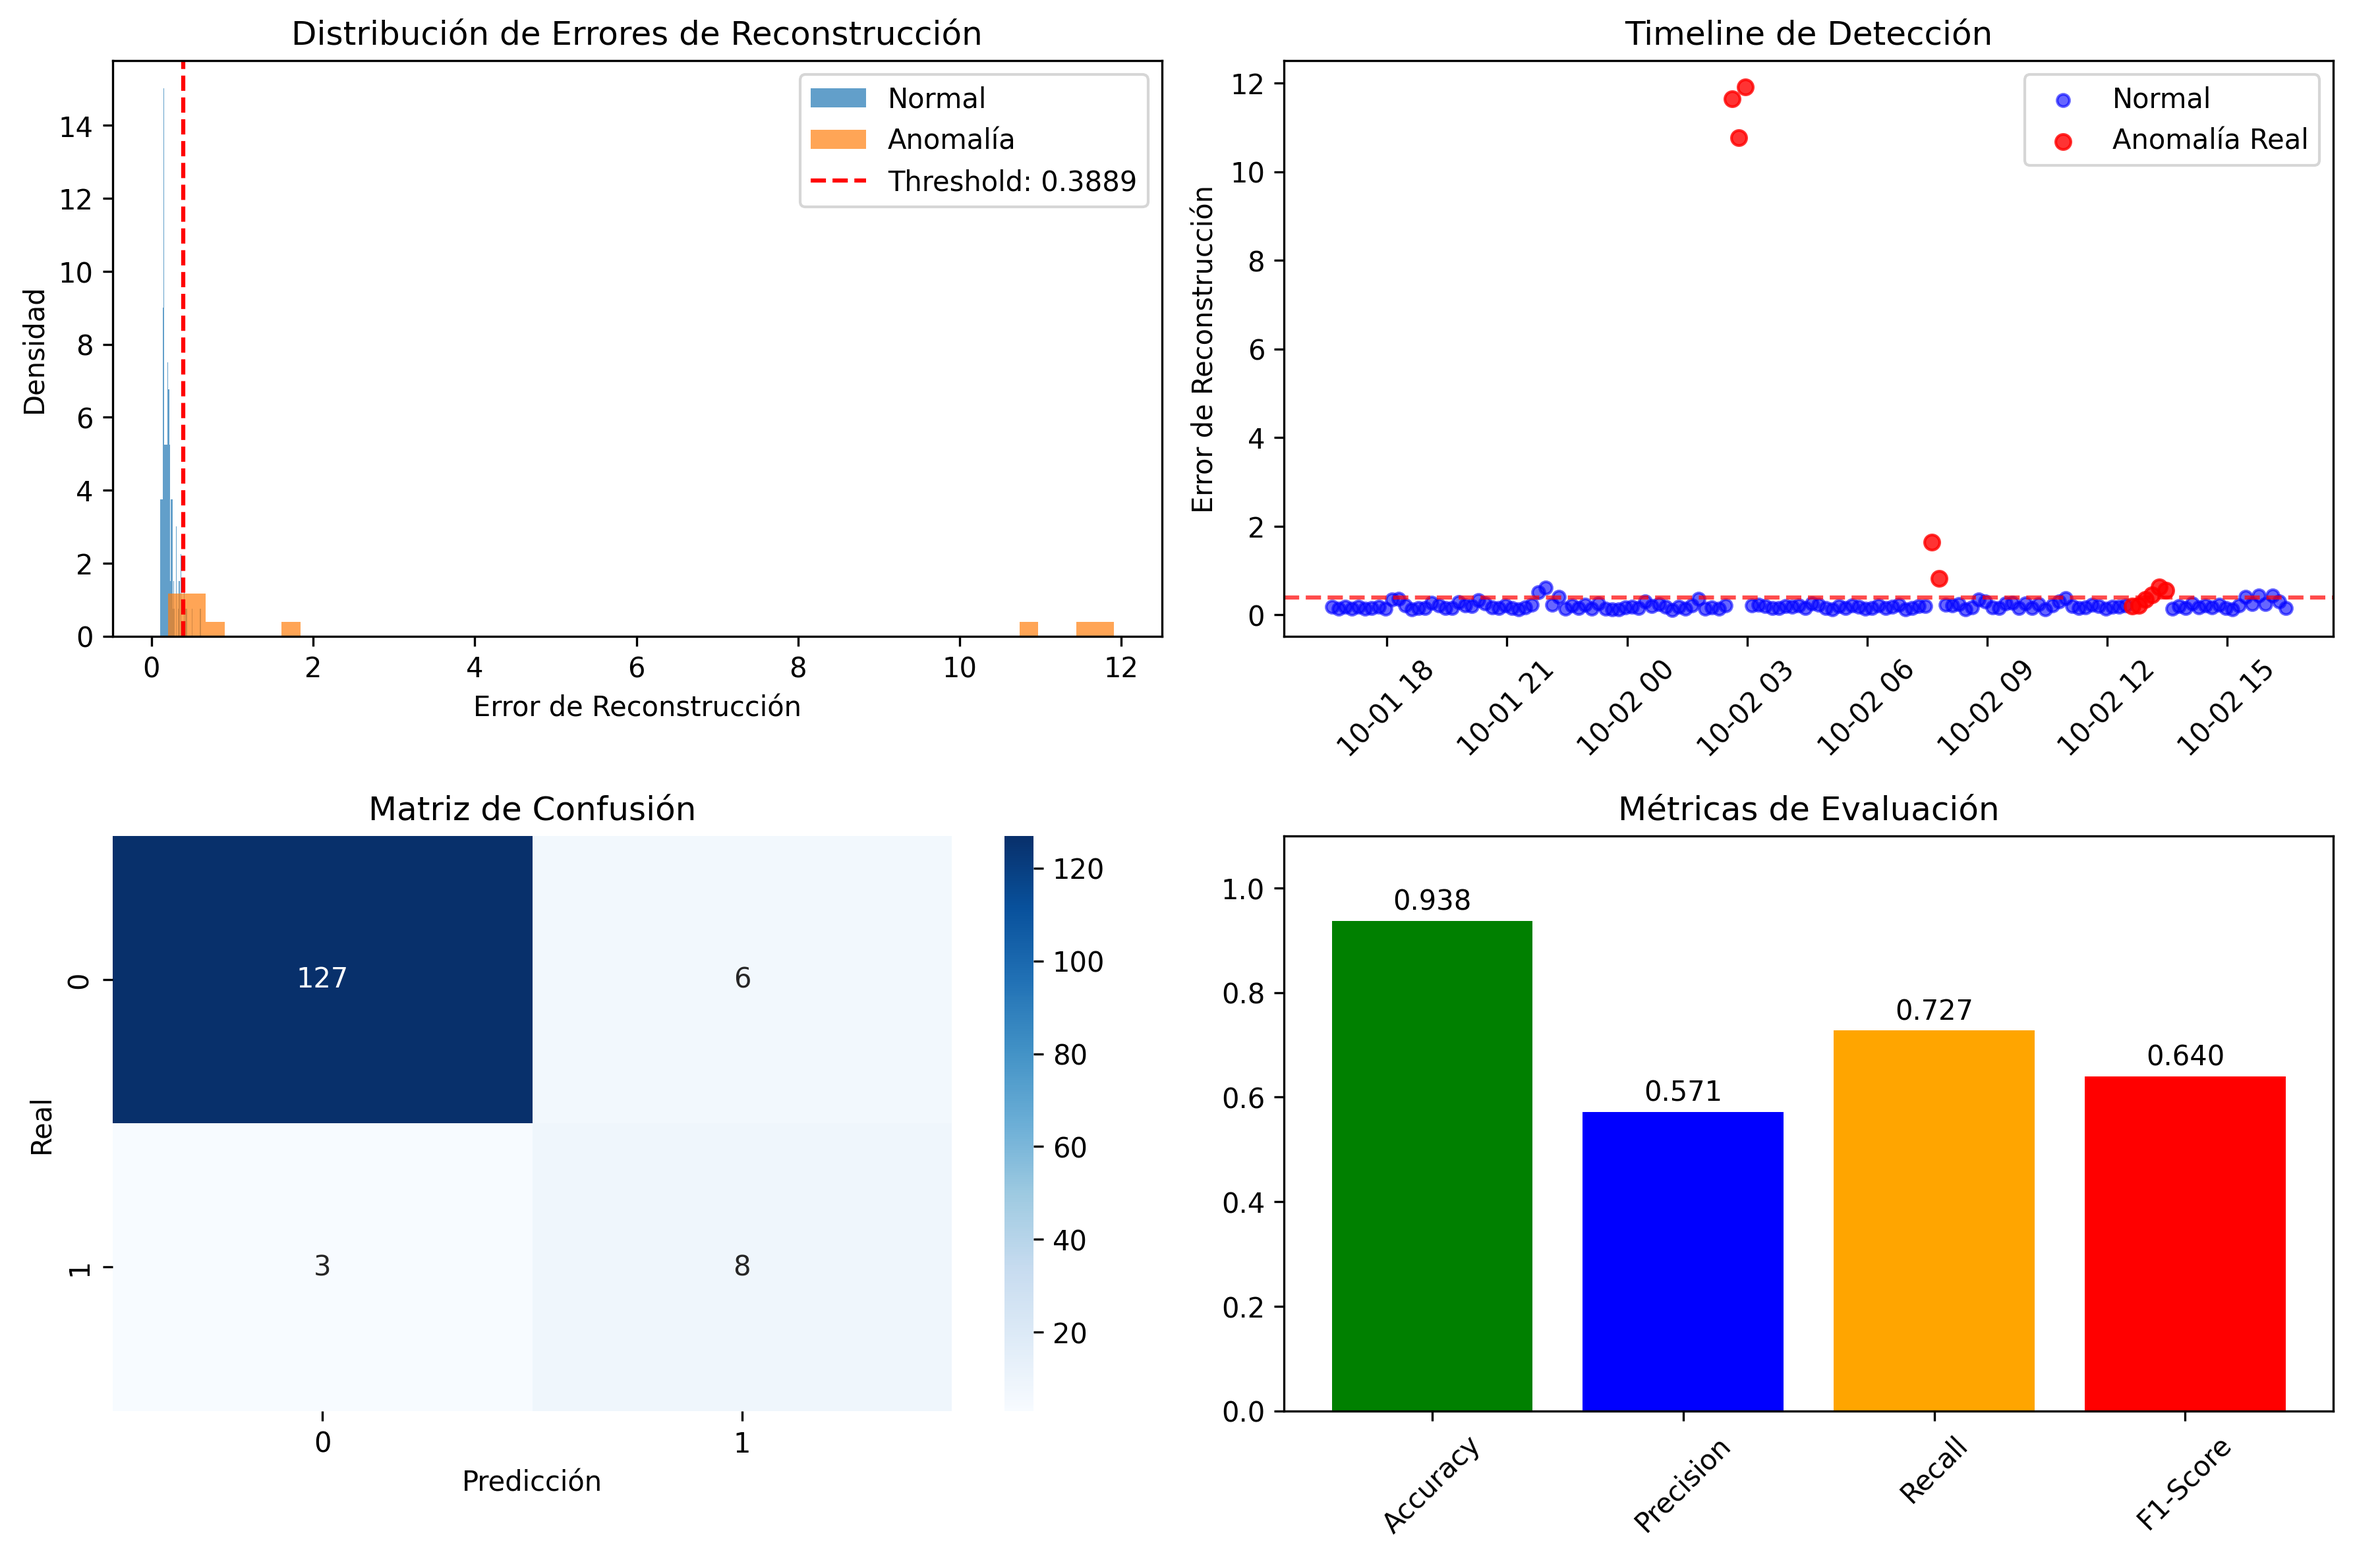
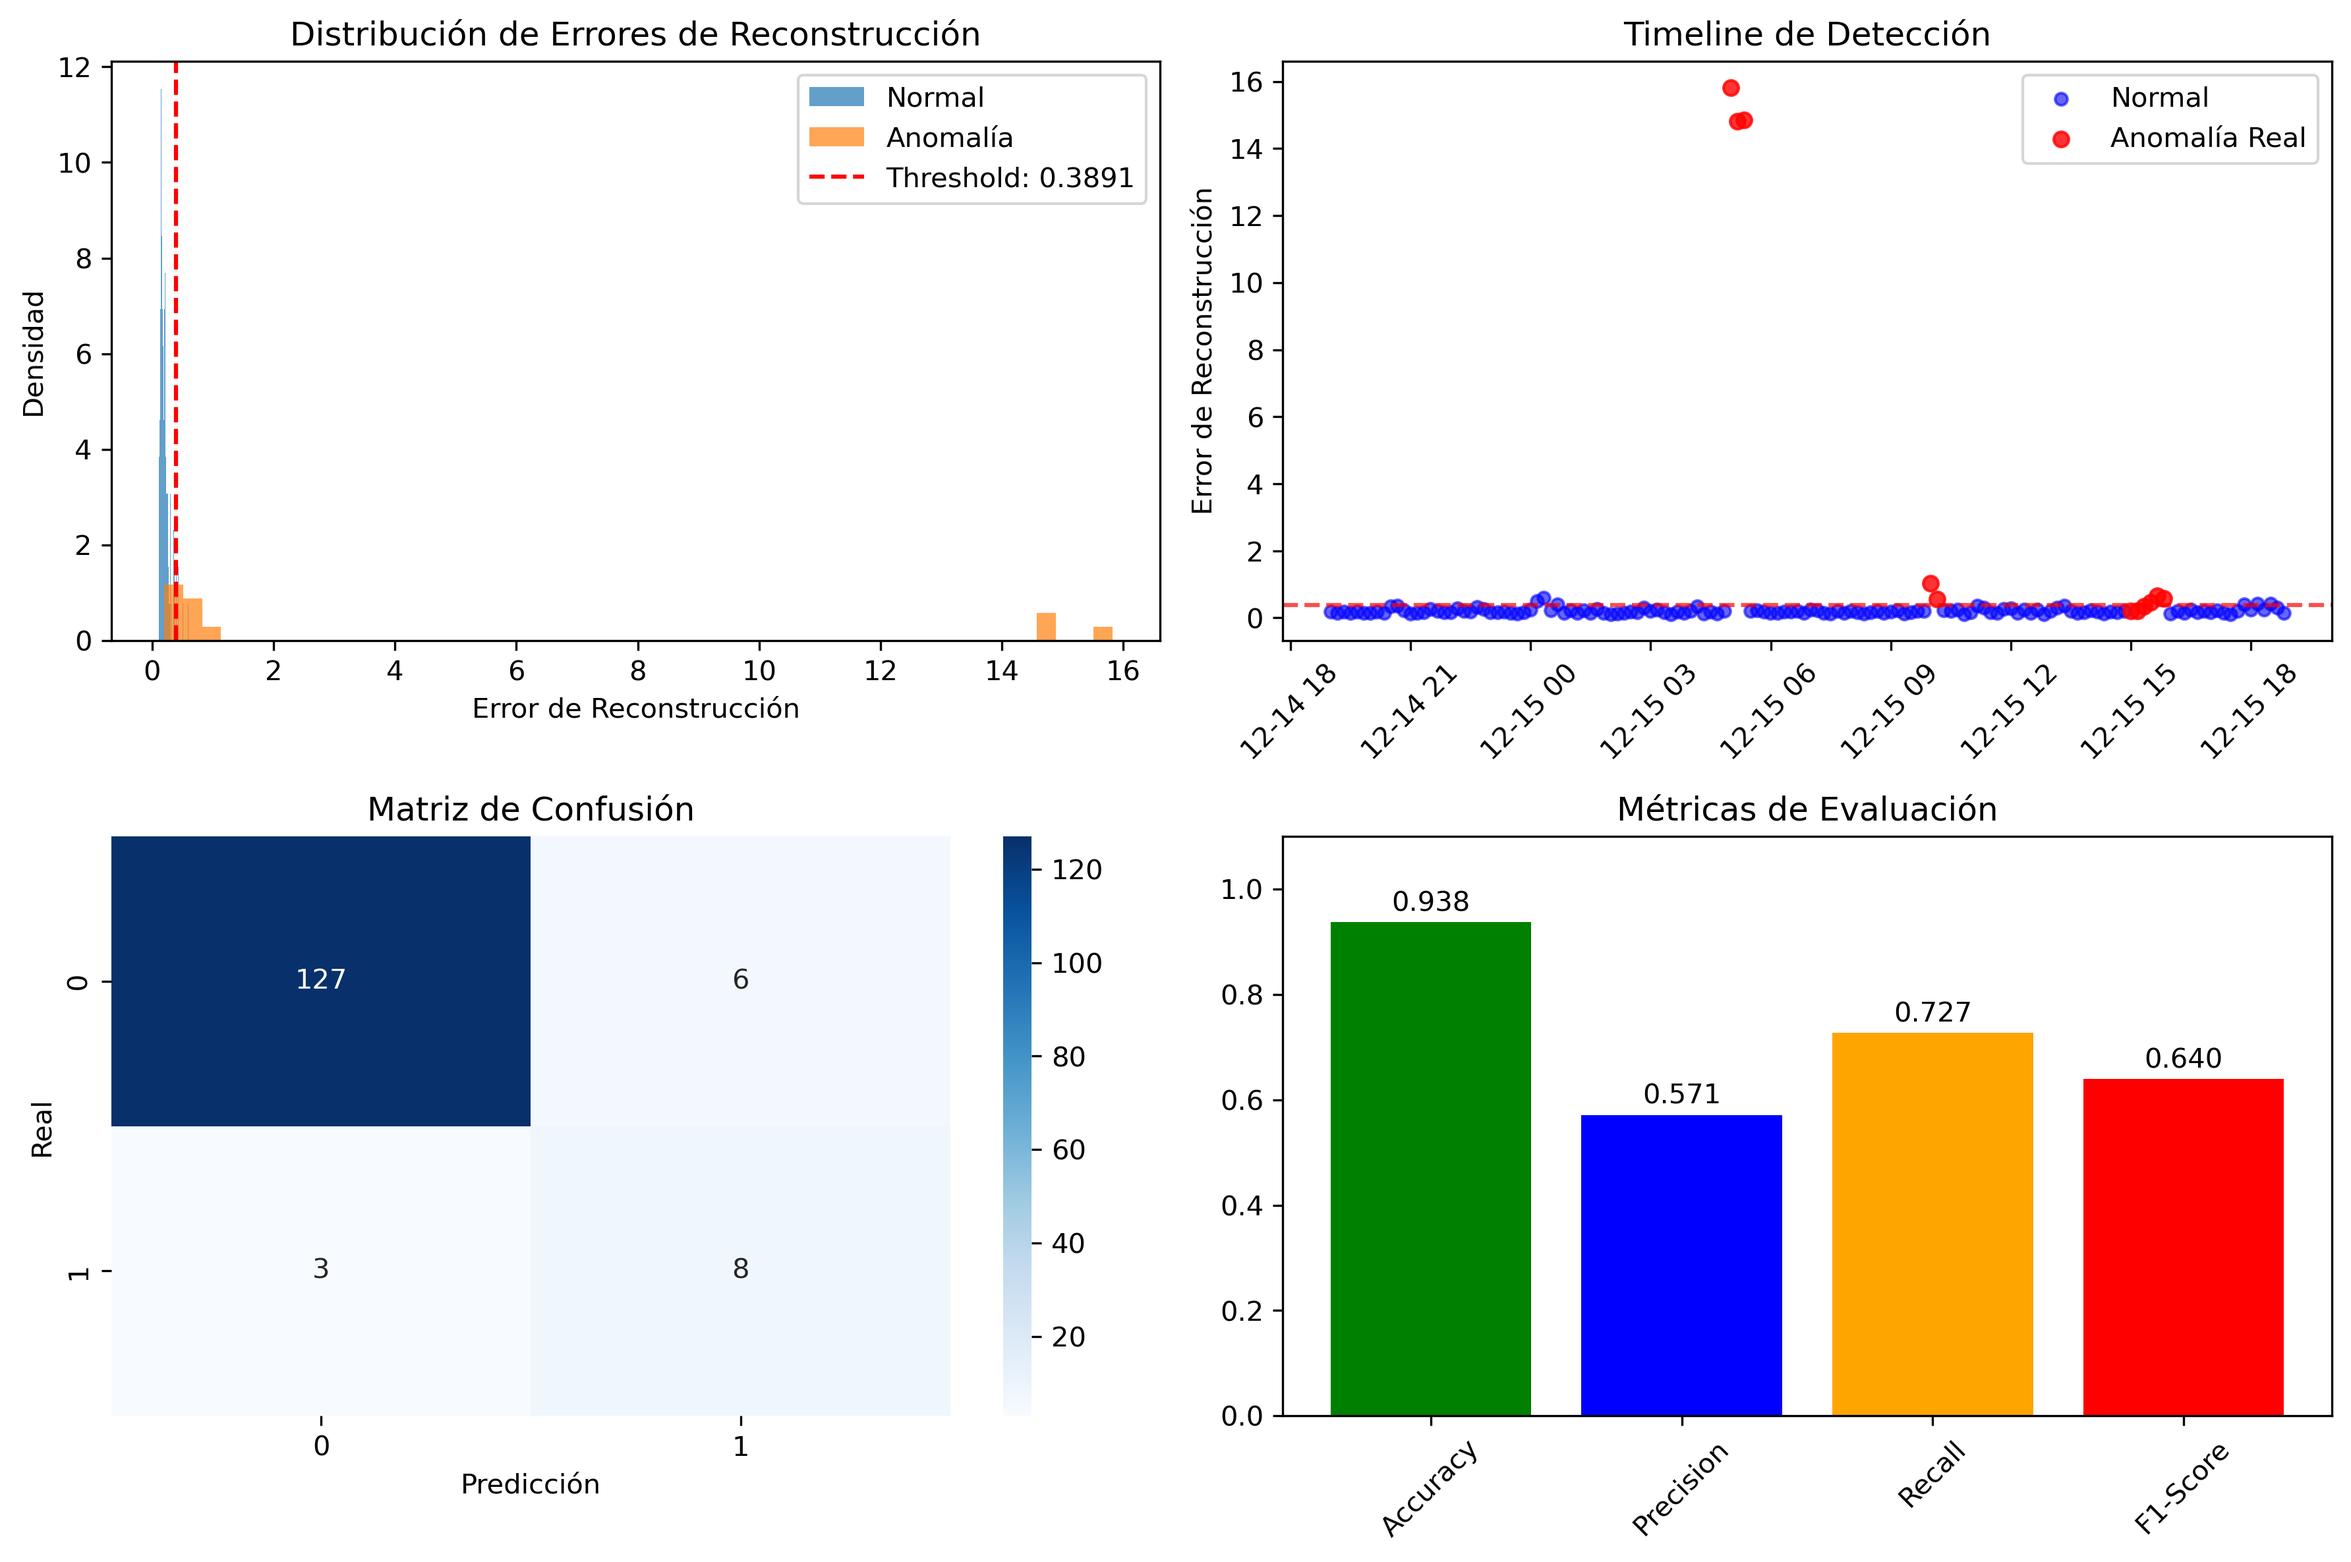
fixed inference and training scripts to correctly load and save model weights and configurations separately.

diff --git a/scripts/train.py b/scripts/train.py
@@ -25,11 +25,11 @@ def generate_synthetic_data() -> pd.DataFrame:
     Genera datos sintéticos para desarrollo
     """
     start_time = datetime.now() - timedelta(days=7)
-    timestamps = pd.date_range(start=start_time, periods=20160, freq='30S')
+    timestamps = pd.date_range(start=start_time, periods=20160, freq='30s')
     
     np.random.seed(42)
     n_points = len(timestamps)
-    
+     
     # Patrón base con ciclo diario
     hours = np.array([ts.hour for ts in timestamps])
     daily_pattern = 0.5 + 0.3 * np.sin(2 * np.pi * hours / 24)

diff --git a/scripts/inference.py b/scripts/inference.py
@@ -75,7 +75,7 @@ class AnomalyDetectionService:
             self.windower = WindowGenerator(window_size=window_size)
             
             # Cargar modelo
-            if os.path.exists('models/lstm_autoencoder.h5'):
+            if os.path.exists('models/lstm_autoencoder.weights.h5') and os.path.exists('models/lstm_autoencoder_config.json'):
                 n_features = len(self.preprocessor.feature_columns) if self.preprocessor.feature_columns else 5
                 input_shape = (window_size, n_features)
                 

diff --git a/.github/copilot-instructions.md b/.github/copilot-instructions.md
@@ -1,0 +1,160 @@
+# Copilot Instructions for Autoencoder Anomaly Detection
+
+## Project Overview
+
+This is a **TV-over-IP anomaly detection system** using LSTM Autoencoders. The system collects metrics from Prometheus, detects anomalous patterns in real-time, and sends alerts via Opsgenie. It's a production-ready MVP with synthetic data support for development.
+
+**Key insight**: All components are loosely coupled via config-driven initialization. Changes should follow the Config → Component → Pipeline pattern.
+
+## Critical Architecture
+
+### Data Flow Pipeline (train → inference)
+
+```
+Prometheus/Synthetic Data → Preprocessor (StandardScaler) → WindowGenerator 
+  → LSTM Autoencoder → AnomalyDetector → Opsgenie/Grafana
+```
+
+### Four Main Modules (src/)
+
+1. **data/** - Ingestion & preprocessing
+   - `prometheus_client.py`: Fetches metrics via Prometheus API
+   - `preprocessor.py`: StandardScaler fitted on training data, reused in inference
+   - `windowing.py`: Creates sliding windows for time-series modeling
+   
+2. **models/** - LSTM Autoencoder
+   - `lstm_autoencoder.py`: Keras-based encoder-decoder architecture
+   - All LSTM decoder layers MUST have `return_sequences=True` (common source of bugs)
+   
+3. **alerting/** - Detection & notifications
+   - `detector.py`: Anomaly scoring via reconstruction error thresholds
+   - `opsgenie_client.py`: Sends alerts with 5-minute throttling
+   - `grafana_links.py`: Generates contextual dashboard links
+   
+4. **utils/** - Configuration & logging
+   - `config.py`: YAML-based with environment variable overrides (critical for deployment)
+   - Loads all `config/*.yaml` files and merges with env vars
+
+### Data Flows to Know
+
+**Training** (scripts/train.py):
+- Generates 7 days of synthetic data (20,160 points at 30s intervals)
+- Fits preprocessor on full dataset → saves to `models/preprocessor.joblib`
+- Creates sequences with window_size=20, stride=20
+- Trains model with 80/20 split, early stopping on val_loss
+
+**Inference** (scripts/inference.py):
+- Loads fitted preprocessor (MUST reload to use same scale)
+- Queries Prometheus in 5-min intervals
+- Computes reconstruction error on sliding windows
+- Throttles alerts to max 1 per 5 minutes
+
+## Developer Workflows
+
+### Running Training
+```bash
+python scripts/train.py
+```
+Outputs: `models/lstm_autoencoder_config.json`, `models/preprocessor.joblib`
+
+**Development shortcut**: Uses synthetic data if `PROMETHEUS_URL` env var is missing.
+
+### Running Inference  
+```bash
+python scripts/inference.py
+```
+Infinite loop (handle with SIGTERM). Requires trained model + fitted preprocessor in `models/`.
+
+### Configuration Strategy
+
+Never hardcode values—use `Config` class:
+```python
+config = Config()
+batch_size = config.get('model.training.batch_size', default=32)
+threshold = config.get('alerting.threshold.percentile', default=95)
+```
+
+Override via env vars (highest priority):
+```bash
+export PROMETHEUS_URL=http://localhost:9090
+export OPSGENIE_API_KEY=xxx
+python scripts/inference.py
+```
+
+## Code Patterns & Conventions
+
+### Preprocessing Pattern
+The `DataPreprocessor` must be fitted on training data only:
+```python
+preprocessor = DataPreprocessor(scaler_type='standard')
+X_train_scaled = preprocessor.fit_transform(train_data)  # Learn normalization
+preprocessor.save_scaler('models/preprocessor.joblib')
+
+# Later in inference:
+preprocessor = DataPreprocessor()
+preprocessor.load_scaler('models/preprocessor.joblib')
+X_test_scaled = preprocessor.transform(test_data)  # Apply saved scale
+```
+**Bug prevention**: Never fit preprocessor on test/inference data.
+
+### LSTM Return Sequences Rule
+All LSTM layers in decoder MUST use `return_sequences=True` except when outputting final features:
+```python
+# ✅ CORRECT - all have return_sequences=True
+for units in decoder_layers:
+    x = layers.LSTM(units, return_sequences=True)(x)
+x = layers.TimeDistributed(layers.Dense(n_features))(x)
+
+# ❌ WRONG - will cause shape mismatches
+x = layers.LSTM(units, return_sequences=False)(x)  # loses temporal dimension
+```
+
+### Alert Throttling
+The inference service enforces minimum 5-minute intervals between alerts to avoid alert fatigue:
+```python
+if last_alert_time is None or (now - last_alert_time).total_seconds() > 300:
+    opsgenie_client.create_alert(...)
+    last_alert_time = now
+```
+
+### Config Loading Order (config.py)
+1. Load all `config/*.yaml` files
+2. Apply environment variable overrides (highest priority)
+3. Fall back to hardcoded defaults if config files missing
+
+## Key Files to Know
+
+- [config/model.yaml](../config/model.yaml) - Model architecture & training hyperparameters
+- [config/data.yaml](../config/data.yaml) - Prometheus URL & data source config
+- [config/alerting.yaml](../config/alerting.yaml) - Threshold method & alert config
+- [scripts/train.py](../scripts/train.py) - Full training pipeline
+- [scripts/inference.py](../scripts/inference.py) - Real-time detection loop
+- [src/models/lstm_autoencoder.py](../src/models/lstm_autoencoder.py) - Model architecture
+- [src/data/preprocessor.py](../src/data/preprocessor.py) - Data scaling & feature engineering
+- [src/utils/config.py](../src/utils/config.py) - Configuration loader
+
+## Environment Setup
+
+**Dependencies**: TensorFlow 2.x, Keras, pandas, numpy, scikit-learn, prometheus-api-client  
+**Python version**: 3.8+ (conda env: `autoencoder`)
+
+Install via:
+```bash
+conda env create -f requirements.yml
+conda activate autoencoder
+```
+
+## Common Pitfalls
+
+1. **Preprocessor mismatch**: Loading different preprocessor in inference than training → scaling inconsistency
+2. **LSTM shape errors**: Forgetting `return_sequences=True` in decoder layers
+3. **Missing models directory**: Ensure `models/` exists before saving/loading
+4. **Prometheus connectivity**: Falls back to synthetic data—check `PROMETHEUS_URL` env var
+5. **Alert fatigue**: Opsgenie throttling set to 5 minutes (edit in `inference.py`)
+
+## Adding Features
+
+**New metric source?** Add client in `src/data/prometheus_client.py`, update `config/data.yaml`  
+**New preprocessing step?** Add method in `src/data/preprocessor.py` and call in `fit_transform()`  
+**New alert channel?** Create client in `src/alerting/`, inherit notification pattern from `OpsgenieClient`  
+**New detector?** Implement in `src/alerting/detector.py` using reconstruction error or other metrics
